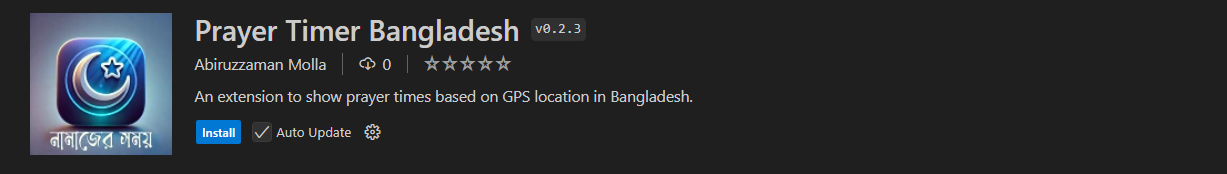
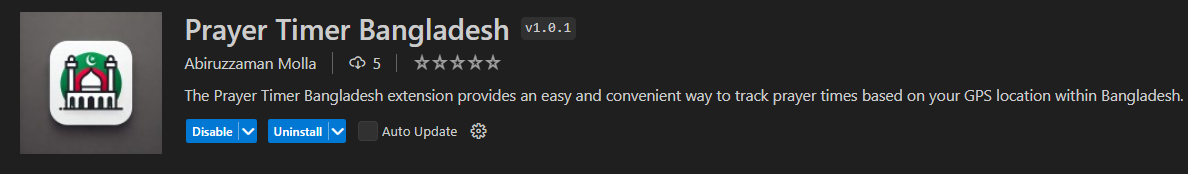
update doc and v 1.0.1

Changed region(s): [[0.0, 0.0575, 0.9966, 0.8908]]

diff --git a/src/extension.ts b/src/extension.ts
@@ -296,9 +296,9 @@ function updatePrayerTimesStatusBar(
   prayerTime: string,
   remainingTime: string
 ) {
-  prayerTimesStatusBar.text = `${localize(
+  prayerTimesStatusBar.text = `🕌 ${localize(
     "prayerTimes"
-  )}: ${prayerName} (${remainingTime})`;
+  )}: ${prayerName} ($(clock) ${remainingTime})`;
   prayerTimesStatusBar.tooltip = localize("prayerTimes");
   prayerTimesStatusBar.command = "prayer-timer-bangladesh.showAllPrayerTimes";
 

diff --git a/README.md b/README.md
@@ -7,13 +7,16 @@
 ## Features
 
 - **Dynamic GPS-Based Prayer Times**: Automatically retrieves prayer times based on your current latitude and longitude.
+
 - **Customizable Settings**:
+  - Set Default Language (Currently: English and Bangla)
   - Configure default latitude and longitude for your location.
   - Set the timezone (default: `Asia/Dhaka`).
   - Choose the position of prayer times in the status bar (`left` or `right`).
   - Toggle visibility of prayer times in the status bar.
 
   ![Prayer Timer Bangladesh Icon](./screenshots/seetings.png)
+
 - **Commands**:
   - `Display Prayer Times`: Shows current prayer time in the status bar.
   - `Show All Prayer Times`: Displays all prayer times in a list.
@@ -22,11 +25,13 @@
   
 - **Status Bar Integration**: Seamlessly displays the current prayer time in the status bar without disrupting your workflow.
 
-  ![Prayer Timer Bangladesh Icon](./screenshots/timer-in-status-bar.png)
+  ![Prayer Timer Bangladesh Icon](./screenshots/timer-in-status-bar-en.png)
+  ![Prayer Timer Bangladesh Icon - Bangla](./screenshots/timer-in-status-bar-bn.png)
 
 - **Show All Prayer Times**: By Clicking on the status bar item, you can see all prayer times in a list.
 
-  ![Prayer Timer Bangladesh Icon](./screenshots/show-all-times.png)
+  ![Prayer Timer Bangladesh Icon](./screenshots/show-all-times-en.png)
+  ![Prayer Timer Bangladesh Icon - Bangla](./screenshots/show-all-times-bn.png)
 
 ## Installation
 
@@ -70,6 +75,10 @@
   - Command: `prayer-timer-bangladesh.showAllPrayerTimes`
   - Displays a list of all prayer times.
 
+- **Show Hadith Notification**:
+  - Command: `prayer-timer-bangladesh.showHadith`
+  - Show a random Hadith.
+
 ### Configuration
 
 You can configure the extension by editing your `settings.json` file in VS Code. Available settings:
@@ -80,7 +89,8 @@ You can configure the extension by editing your `settings.json` file in VS Code.
   "prayerTimerBangladesh.lng": 90.7061,
   "prayerTimerBangladesh.tzname": "Asia/Dhaka",
   "prayerTimerBangladesh.position": "right",
-  "prayerTimerBangladesh.active": true
+  "prayerTimerBangladesh.active": true,
+  "prayerTimerBangladesh.language": "English",
 }
 ```
 
@@ -88,6 +98,7 @@ You can configure the extension by editing your `settings.json` file in VS Code.
 
 | Setting | Type | Default | Description |
 | --- | --- | --- | --- |
+| `prayerTimerBangladesh.language` | enum | `English` or `Bangla` | Change the language of the texts. |
 | `prayerTimerBangladesh.lat` | number | 24.0298 | Latitude for prayer times. |
 | `prayerTimerBangladesh.lng` | number | 90.7061 | Longitude for prayer times. |
 | `prayerTimerBangladesh.tzname` | string | `Asia/Dhaka` | Timezone for prayer times. |

diff --git a/CHANGELOG.md b/CHANGELOG.md
@@ -4,6 +4,11 @@ All notable changes to the **[Prayer Timer Bangladesh](https://marketplace.visua
 
 # Changelog
 
+## [1.0.1] - 2024-10-13
+### Added
+- Emoji and Icon in status bar
+- Changed Extention Icon
+
 ## [1.0.0] - 2024-10-12
 ### Added
 - Multi-Language Support (English & Bangla)
